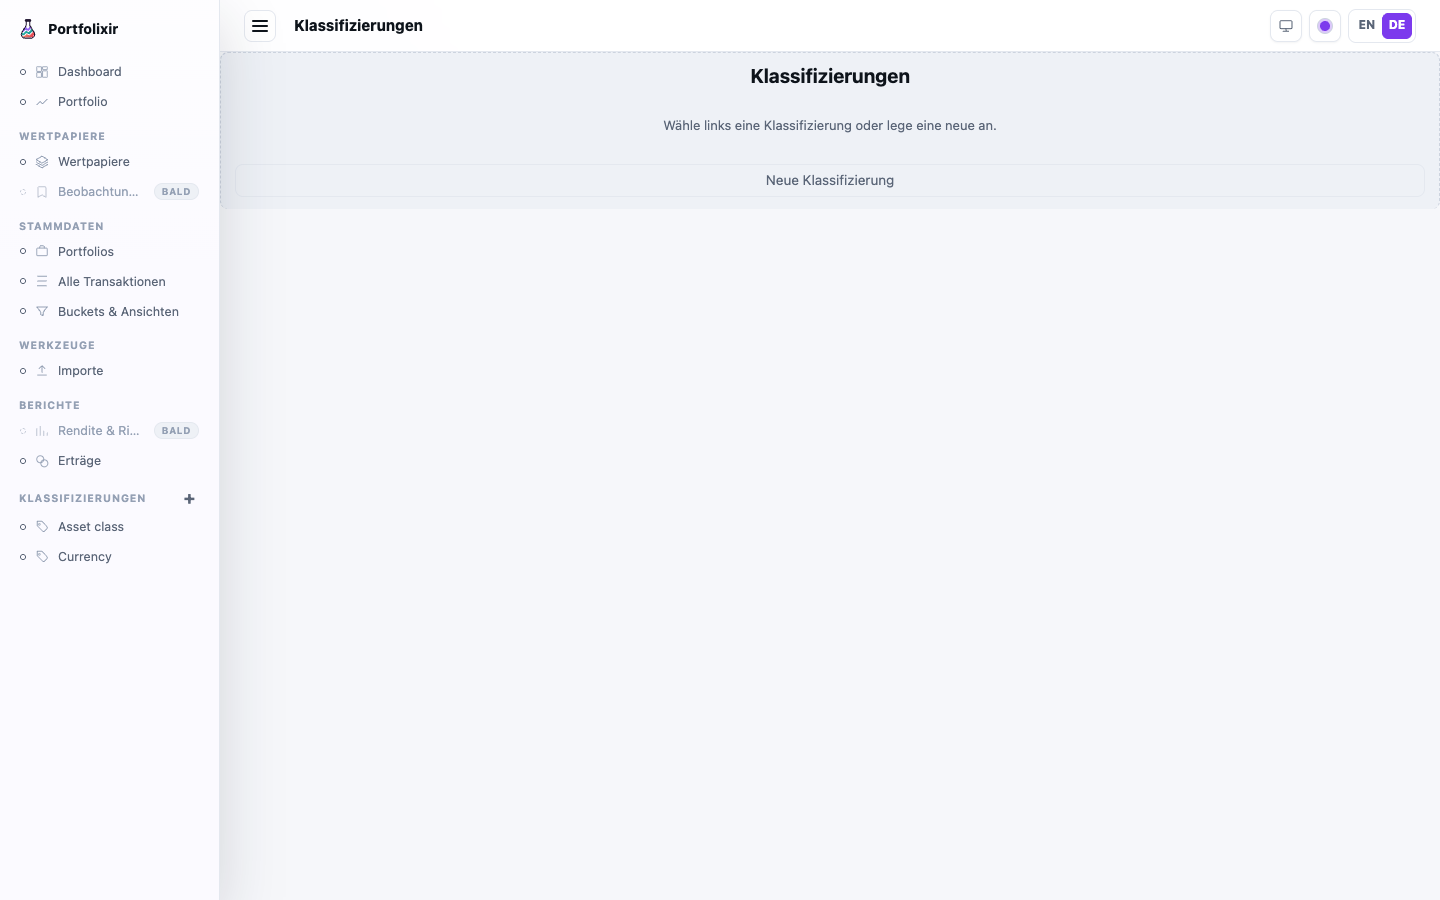
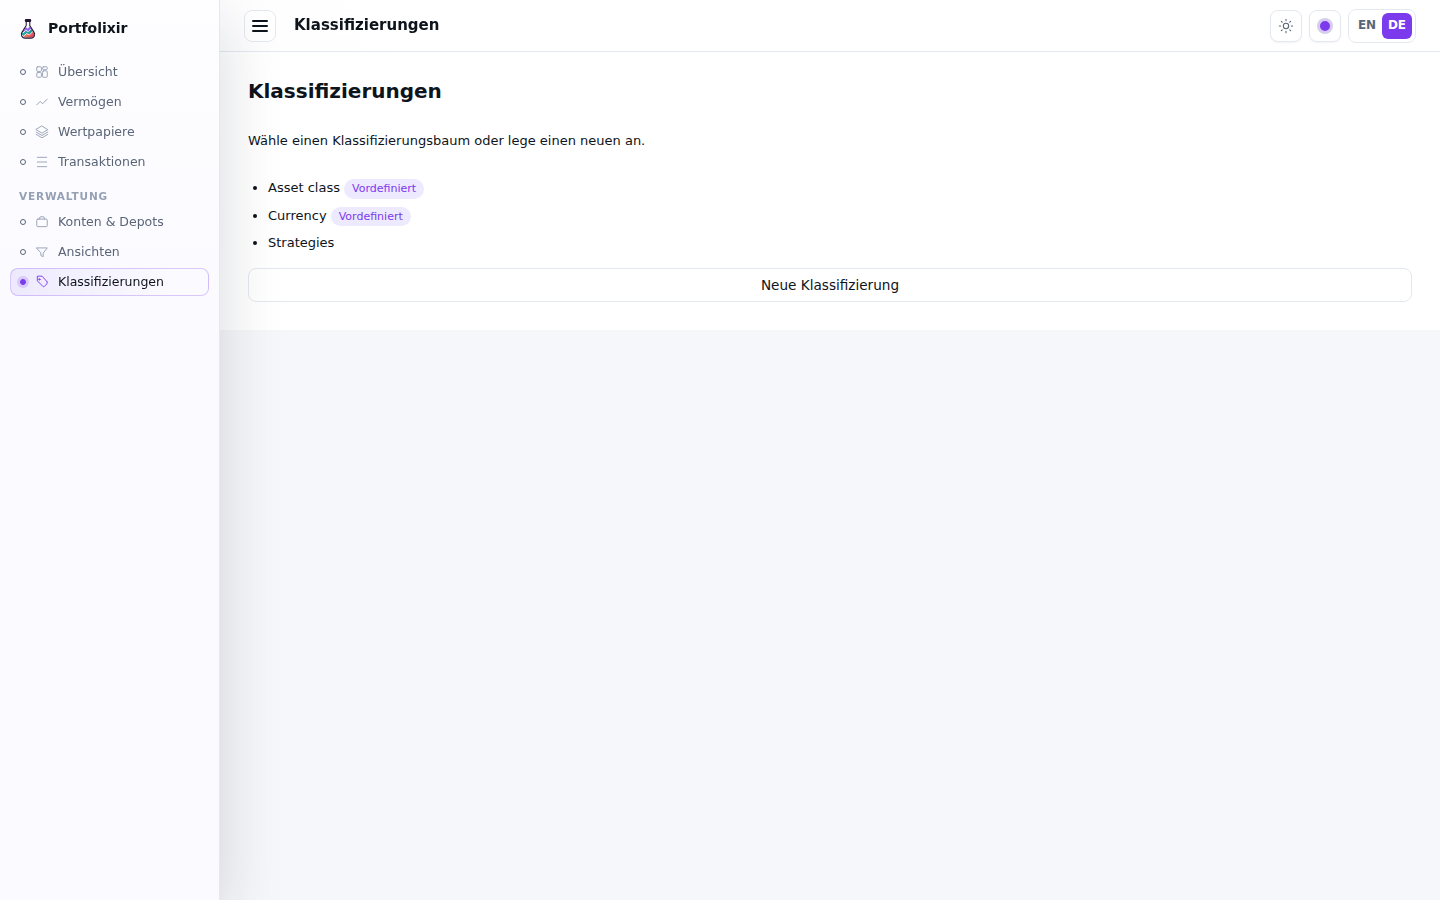
docs(screenshots): regenerate the full screenshot set and tour GIF from the demo dataset
The shipped screenshots predated the ADR-0022/0024 navigation and every
Sprint 5 surface change. Regenerated from the synthetic priv/demo dataset
(DE locale, 1440x900, light; tour at 860x554 cycling violet/teal/coral,
dark mode and the target-vs-actual allocation): current sidebar, signed
KPI colours, ISO date inputs, the computing cue vocabulary, and the drift
table are what the README and docs site now show. The tour GIF shrinks
from 2.8 MB to 270 KB.

Reproducibility with no network: priv/demo gains quotes_seed.exs
(deterministic synthetic weekly closes, seeded RNG) and the README
documents it; strategies_seed.exs is updated to the current actor-first
context APIs it had drifted from.

One layout fix the screenshot pass caught: the income conversion ⓘ used
the stat-card-cornered .metric-tooltip positioning and rendered detached
at the viewport corner — a .metric-tooltip--inline variant keeps it in
the text flow with the body opening rightwards.

diff --git a/priv/static/app.css b/priv/static/app.css
@@ -4703,6 +4703,22 @@ button.income-bar-label.is-active {
   list-style: none;
   user-select: none;
 }
+/* Inline variant: the ⓘ sits in the text flow (the income conversion line),
+   not pinned to a stat card's corner, and its body opens to the right so it
+   cannot leave the viewport. */
+.metric-tooltip--inline {
+  position: relative;
+  bottom: auto;
+  right: auto;
+  margin-left: var(--space-1);
+  vertical-align: middle;
+}
+
+.metric-tooltip--inline p {
+  left: 0;
+  right: auto;
+}
+
 .metric-tooltip summary::-webkit-details-marker {
   display: none;
 }

diff --git a/priv/demo/README.md b/priv/demo/README.md
@@ -24,6 +24,16 @@ Then import the file through the Imports view (drag & drop, map everything as
 "create new", apply), or via the JSON API / a small `mix run` script that calls
 `Portfolixir.Imports.parse_portfolio_performance/2` and `Imports.apply/2`.
 
+## Quote history (offline)
+
+The demo export carries transactions only. To render charts and valuations
+without any market-data sync, seed deterministic synthetic weekly closes
+(seeded RNG, anchored at each security's last trade price):
+
+```bash
+DATABASE_NAME=portfolixir_demo PORT=4003 mix run priv/demo/quotes_seed.exs
+```
+
 ## Strategies + target weights (optional)
 
 To reproduce the target-vs-actual rebalancing view shown in the README, seed a
